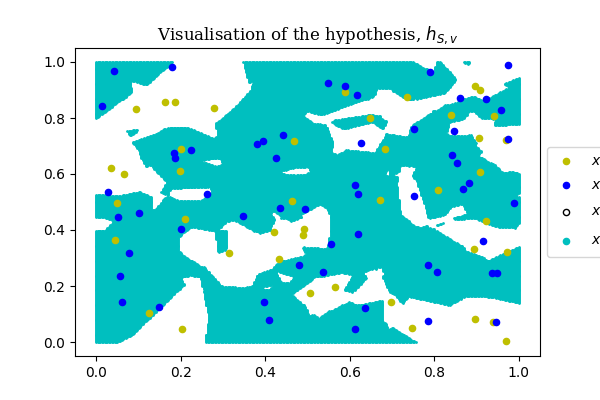
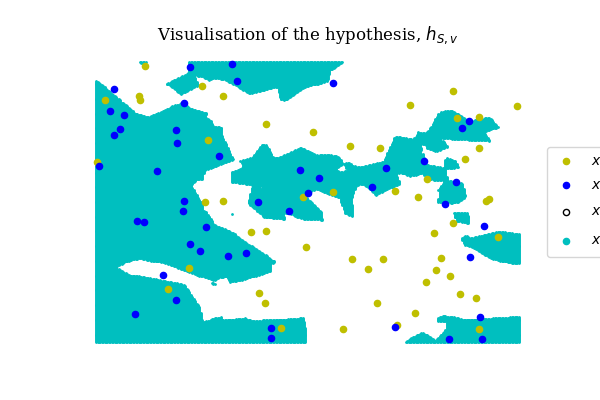
finalized q10

diff --git a/Assignment 1/Q10.py b/Assignment 1/Q10.py
@@ -3,7 +3,7 @@ import matplotlib.pyplot as plt
 from sklearn.neighbors import KNeighborsClassifier as KNN
 
 
-train_n, test_n, dim, beta = 10, 400, 2, 100.
+train_n, test_n, dim, beta = 50, 400, 2, 100.
 
 def kernel(x1, x2, beta=1.):
     return np.exp(-beta*np.linalg.norm(x1-x2, ord=2, axis=-1)**dim)
@@ -12,7 +12,7 @@ def kernel(x1, x2, beta=1.):
 linspace = np.linspace(1., 10., num=train_n).reshape(-1, 1)
 axes = np.meshgrid(*[linspace for _ in range(dim)])
 train_x = np.concatenate([axis.reshape(-1, 1) for axis in axes], axis=1)
-train_x = train_x[np.random.choice(np.arange(train_x.shape[0]), replace=False, size=50), :]
+train_x = train_x[np.random.choice(np.arange(train_x.shape[0]), replace=False, size=train_n), :]
 train_y = np.random.choice((-1, 1), size=train_x.shape[0]).reshape(-1, 1)
 
 train_k = kernel(np.expand_dims(train_x, 0), np.expand_dims(train_x, 1), beta=beta)
@@ -26,13 +26,11 @@ test_k = kernel(np.expand_dims(test_x, 0), np.expand_dims(train_x, 1), beta=beta
 preds = test_k.T @ weights
 
 
-fig, axs = plt.subplots(2, 1, figsize=(12, 16))
+fig, axs = plt.subplots(2, 1, figsize=(8, 12))
 axs[0].scatter(test_x[(preds<0).ravel(), 0], test_x[(preds<0).ravel(), 1], color='lightcoral', s=1)
 axs[0].scatter(test_x[(preds>0).ravel(), 0], test_x[(preds>0).ravel(), 1], color='lightgreen', s=1)
 axs[0].scatter(train_x[(train_y<0).ravel(), 0], train_x[(train_y<0).ravel(), 1], color='red', s=20)
 axs[0].scatter(train_x[(train_y>0).ravel(), 0], train_x[(train_y>0).ravel(), 1], color='green', s=20)
-axs[0].set_xlabel('x')
-axs[0].set_ylabel('y')
 axs[0].set_title(fr'Gaussian Kernel Regression $\beta = {beta}$')
 
 
@@ -44,9 +42,15 @@ axs[1].scatter(test_x[(preds<0).ravel(), 0], test_x[(preds<0).ravel(), 1], color
 axs[1].scatter(test_x[(preds>0).ravel(), 0], test_x[(preds>0).ravel(), 1], color='lightgreen', s=1)
 axs[1].scatter(train_x[(train_y<0).ravel(), 0], train_x[(train_y<0).ravel(), 1], color='red', s=20)
 axs[1].scatter(train_x[(train_y>0).ravel(), 0], train_x[(train_y>0).ravel(), 1], color='green', s=20)
-axs[1].set_xlabel('x')
-axs[1].set_ylabel('y')
 axs[1].set_title(r'k-Nearest Neighbors with $k = 1$')
+
+
+for ax in axs:
+    ax.get_xaxis().set_ticks([]); ax.get_yaxis().set_ticks([])
+    for side in ('top', 'right', 'bottom', 'left'):
+        ax.spines[side].set_visible(False)
+
+fig.tight_layout()
 
 plt.savefig(f'assets/q10_kernel-reg-vs-knn_beta-{int(beta)}.png')
 plt.show()
